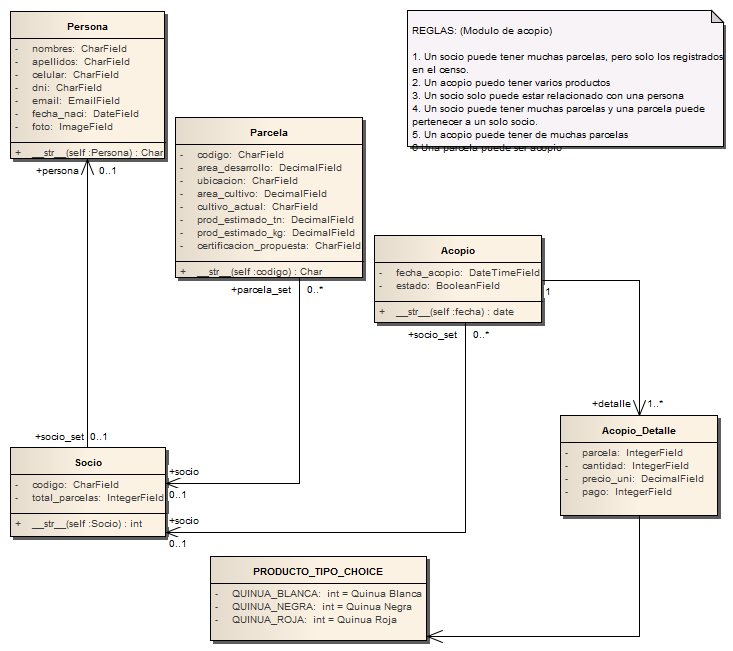
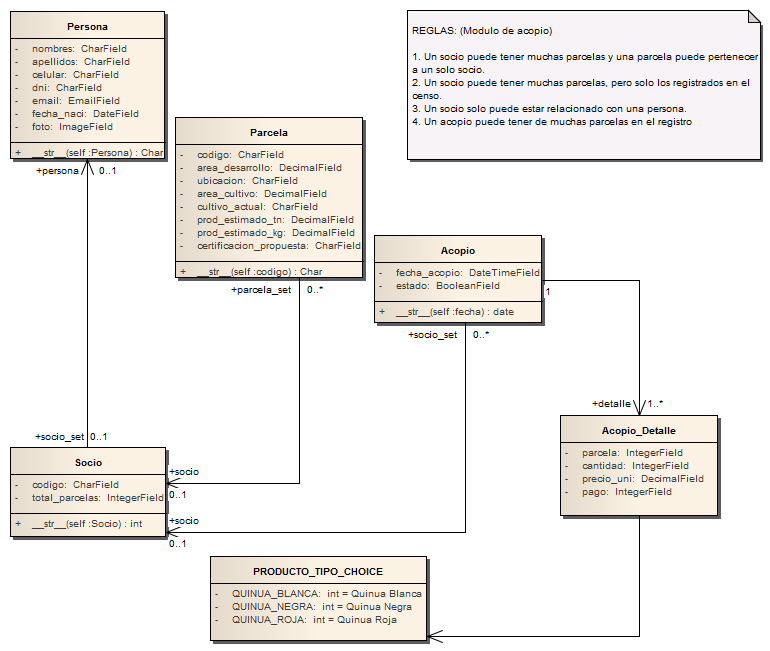
Views Model

diff --git a/EARoot/EA1/EA2/EA3/EA2/EA1/EA159.html b/EARoot/EA1/EA2/EA3/EA2/EA1/EA159.html
@@ -68,7 +68,6 @@ function initPage(src) {
 	<div class="TableGroup" id="TableGroup">
 		<ul class="ItemTitle">
 			<li onClick="parent.toggleItem('Attributes');" id="AttributesTitle">Atributos</li>
-			<li onClick="parent.toggleItem('AssociationsHasta');" id="AssociationsHastaTitle">Asociaciones Hasta</li>
 			<li onClick="parent.toggleItem('AssociationsDesde');" id="AssociationsDesdeTitle">Asociaciones Desde</li>
 		</ul>
 <div class="ItemBody" id="AttributesTable">
@@ -81,8 +80,8 @@ function initPage(src) {
 			</tr>
 			<tr>
 				<td class="TableRowBottomDashed"  colspan="1">
-					<div class="DetailsDivParent"><img src="../../../../../../images/minus03.gif" align="absmiddle" id="DetailsImageAttributes214" onclick="parent.toggleDiv('detailsDIVAttributes214','DetailsImageAttributes214')" />Details:
-						<div id="detailsDIVAttributes214" class="DetailsDiv" >
+					<div class="DetailsDivParent"><img src="../../../../../../images/minus03.gif" align="absmiddle" id="DetailsImageAttributes216" onclick="parent.toggleDiv('detailsDIVAttributes216','DetailsImageAttributes216')" />Details:
+						<div id="detailsDIVAttributes216" class="DetailsDiv" >
 						<i></i>&nbsp;
 						</div>
 					</div>
@@ -92,8 +91,8 @@ function initPage(src) {
 			</tr>
 			<tr>
 				<td class="TableRowBottomDashed"  colspan="1">
-					<div class="DetailsDivParent"><img src="../../../../../../images/minus03.gif" align="absmiddle" id="DetailsImageAttributes215" onclick="parent.toggleDiv('detailsDIVAttributes215','DetailsImageAttributes215')" />Details:
-						<div id="detailsDIVAttributes215" class="DetailsDiv" >
+					<div class="DetailsDivParent"><img src="../../../../../../images/minus03.gif" align="absmiddle" id="DetailsImageAttributes217" onclick="parent.toggleDiv('detailsDIVAttributes217','DetailsImageAttributes217')" />Details:
+						<div id="detailsDIVAttributes217" class="DetailsDiv" >
 						<i></i>&nbsp;
 						</div>
 					</div>
@@ -101,39 +100,6 @@ function initPage(src) {
 			</tr>
 	</table>
 </div>
-		<div class="ItemBody" id="AssociationsHastaTable">
-			<table border="0" cellspacing="0" cellpadding="0" class="Table">
-				<tr>
-					<td width="40%" class="TableHeading">Element</td>
-					<td width="30%" class="TableHeading">Source Role</td>
-					<td width="30%" class="TableHeading">Target Role</td>
-				</tr>
-				<tr>
-					<td width="40%" class="TableRow" valign="top">
-						<a href="EA160.html">Salida_Producto</a><br />
-						Clase &nbsp;
-					</td>
-					<td width="30%" class="TableRow" valign="top">
-						<strong>Name:</strong> detalleSalida_set<br />
-						&nbsp;
-					</td>
-					<td width="30%" class="TableRow" valign="top">
-						<strong>Name:</strong> salidaProducto<br />
-						&nbsp;	
-					</td>
-				</tr>
-				<tr>
-					<td class="TableRowBottomDashed"  colspan="3">
-						<div class="DetailsDivParent"><img src="../../../../../../images/minus03.gif" align="absmiddle" id="DetailsImageLink217" onclick="parent.toggleDiv('detailsDIVLink217','DetailsImageLink217')" />Details:
-							<div id="detailsDIVLink217" class="DetailsDiv" >
-							&nbsp;
-							</div>
-						</div>
-					</td>
-				</tr>
-
-			</table>
-		</div>
 		<div class="ItemBody" id="AssociationsDesdeTable">
 			<table border="0" cellspacing="0" cellpadding="0" class="Table">
 				<tr>
@@ -157,8 +123,8 @@ function initPage(src) {
 				</tr>
 				<tr>
 					<td class="TableRowBottomDashed"  colspan="3">
-						<div class="DetailsDivParent"><img src="../../../../../../images/minus03.gif" align="absmiddle" id="DetailsImageLink218" onclick="parent.toggleDiv('detailsDIVLink218','DetailsImageLink218')" />Details:
-							<div id="detailsDIVLink218" class="DetailsDiv" >
+						<div class="DetailsDivParent"><img src="../../../../../../images/minus03.gif" align="absmiddle" id="DetailsImageLink219" onclick="parent.toggleDiv('detailsDIVLink219','DetailsImageLink219')" />Details:
+							<div id="detailsDIVLink219" class="DetailsDiv" >
 							&nbsp;
 							</div>
 						</div>

diff --git a/EARoot/EA1/EA2/EA3/EA2/EA1/EA160.html b/EARoot/EA1/EA2/EA3/EA2/EA1/EA160.html
@@ -68,7 +68,7 @@ function initPage(src) {
 	<div class="TableGroup" id="TableGroup">
 		<ul class="ItemTitle">
 			<li onClick="parent.toggleItem('Attributes');" id="AttributesTitle">Atributos</li>
-			<li onClick="parent.toggleItem('AssociationsDesde');" id="AssociationsDesdeTitle">Asociaciones Desde</li>
+			<li onClick="parent.toggleItem('AssociationsHasta');" id="AssociationsHastaTitle">Asociaciones Hasta</li>
 			<li onClick="parent.toggleItem('Links');" id="LinksTitle">Otros vínculos</li>
 		</ul>
 <div class="ItemBody" id="AttributesTable">
@@ -112,7 +112,7 @@ function initPage(src) {
 			</tr>
 	</table>
 </div>
-		<div class="ItemBody" id="AssociationsDesdeTable">
+		<div class="ItemBody" id="AssociationsHastaTable">
 			<table border="0" cellspacing="0" cellpadding="0" class="Table">
 				<tr>
 					<td width="40%" class="TableHeading">Element</td>
@@ -121,22 +121,22 @@ function initPage(src) {
 				</tr>
 				<tr>
 					<td width="40%" class="TableRow" valign="top">
-						<a href="EA159.html">Detalle_salida_producto</a><br />
+						<a href="EA158.html">Almacen</a><br />
 						Clase &nbsp;
 					</td>
 					<td width="30%" class="TableRow" valign="top">
-						<strong>Name:</strong> detalleSalida_set<br />
+						<strong>Name:</strong> &nbsp;<br />
 						&nbsp;
 					</td>
 					<td width="30%" class="TableRow" valign="top">
-						<strong>Name:</strong> salidaProducto<br />
+						<strong>Name:</strong> &nbsp;<br />
 						&nbsp;	
 					</td>
 				</tr>
 				<tr>
 					<td class="TableRowBottomDashed"  colspan="3">
-						<div class="DetailsDivParent"><img src="../../../../../../images/minus03.gif" align="absmiddle" id="DetailsImageLink224" onclick="parent.toggleDiv('detailsDIVLink224','DetailsImageLink224')" />Details:
-							<div id="detailsDIVLink224" class="DetailsDiv" >
+						<div class="DetailsDivParent"><img src="../../../../../../images/minus03.gif" align="absmiddle" id="DetailsImageLink223" onclick="parent.toggleDiv('detailsDIVLink223','DetailsImageLink223')" />Details:
+							<div id="detailsDIVLink223" class="DetailsDiv" >
 							&nbsp;
 							</div>
 						</div>

diff --git a/EARoot/EA1/EA2/EA3/EA2/EA1/EA158.html b/EARoot/EA1/EA2/EA3/EA2/EA1/EA158.html
@@ -70,6 +70,7 @@ function initPage(src) {
 			<li onClick="parent.toggleItem('Attributes');" id="AttributesTitle">Atributos</li>
 			<li onClick="parent.toggleItem('Operations');" id="OperationsTitle">Operaciones</li>
 			<li onClick="parent.toggleItem('AssociationsHasta');" id="AssociationsHastaTitle">Asociaciones Hasta</li>
+			<li onClick="parent.toggleItem('AssociationsDesde');" id="AssociationsDesdeTitle">Asociaciones Desde</li>
 			<li onClick="parent.toggleItem('Links');" id="LinksTitle">Otros vínculos</li>
 		</ul>
 <div class="ItemBody" id="AttributesTable">
@@ -210,6 +211,39 @@ function initPage(src) {
 					<td class="TableRowBottomDashed"  colspan="3">
 						<div class="DetailsDivParent"><img src="../../../../../../images/minus03.gif" align="absmiddle" id="DetailsImageLink211" onclick="parent.toggleDiv('detailsDIVLink211','DetailsImageLink211')" />Details:
 							<div id="detailsDIVLink211" class="DetailsDiv" >
+							&nbsp;
+							</div>
+						</div>
+					</td>
+				</tr>
+
+			</table>
+		</div>
+		<div class="ItemBody" id="AssociationsDesdeTable">
+			<table border="0" cellspacing="0" cellpadding="0" class="Table">
+				<tr>
+					<td width="40%" class="TableHeading">Element</td>
+					<td width="30%" class="TableHeading">Source Role</td>
+					<td width="30%" class="TableHeading">Target Role</td>
+				</tr>
+				<tr>
+					<td width="40%" class="TableRow" valign="top">
+						<a href="EA160.html">Salida_Producto</a><br />
+						Clase &nbsp;
+					</td>
+					<td width="30%" class="TableRow" valign="top">
+						<strong>Name:</strong> &nbsp;<br />
+						&nbsp;
+					</td>
+					<td width="30%" class="TableRow" valign="top">
+						<strong>Name:</strong> &nbsp;<br />
+						&nbsp;	
+					</td>
+				</tr>
+				<tr>
+					<td class="TableRowBottomDashed"  colspan="3">
+						<div class="DetailsDivParent"><img src="../../../../../../images/minus03.gif" align="absmiddle" id="DetailsImageLink215" onclick="parent.toggleDiv('detailsDIVLink215','DetailsImageLink215')" />Details:
+							<div id="detailsDIVLink215" class="DetailsDiv" >
 							&nbsp;
 							</div>
 						</div>

diff --git a/EARoot/EA1/EA2/EA3/EA2/EA1/EA154.html b/EARoot/EA1/EA2/EA3/EA2/EA1/EA154.html
@@ -19,13 +19,13 @@ function initPage(src) {
 <img src="EA155.png" usemap="#EA155" border="0" />
 
 <MAP NAME="EA155">
-<area shape="rect" coords="135,10,536,121" href="EA156.html">
-<area shape="rect" coords="506,414,675,484" href="EA159.html">
-<area shape="rect" coords="213,598,369,668" href="EA160.html">
-<area shape="rect" coords="152,386,312,483" href="EA158.html">
-<area shape="rect" coords="232,183,400,266" href="../../../EA2/EA2/EA2/EA114.html">
-<area shape="rect" coords="243,382,389,470" href="../../../EA2/EA2/EA2/EA115.html">
-<area shape="rect" coords="10,128,227,213" href="../../../EA2/EA2/EA2/EA113.html">
+<area shape="rect" coords="390,157,607,242" href="../../../EA2/EA2/EA2/EA113.html">
+<area shape="rect" coords="34,164,180,252" href="../../../EA2/EA2/EA2/EA115.html">
+<area shape="rect" coords="10,391,178,474" href="../../../EA2/EA2/EA2/EA114.html">
+<area shape="rect" coords="275,10,676,121" href="EA156.html">
+<area shape="rect" coords="646,414,815,484" href="EA159.html">
+<area shape="rect" coords="392,585,548,655" href="EA160.html">
+<area shape="rect" coords="310,384,470,481" href="EA158.html">
 </MAP>
 
 	<div class="ObjectTitle">Models : lógico diagram</div>
@@ -36,7 +36,7 @@ function initPage(src) {
 		</tr>
 		<tr>
 			<td width="15%" class="ObjectDetailsTopic">Modified:</td>
-			<td width="85%" class="ObjectDetailsValue">31/05/2017 07:23:55</td>
+			<td width="85%" class="ObjectDetailsValue">5/06/2017 12:07:24</td>
 		</tr>
 		<tr style="padding-top: 10px;">
 			<td width="15%" class="ObjectDetailsTopic"><img src="../../../../../../images/plus03.gif" align="absmiddle" id="proj" onclick="parent.toggleData(this.id)" />Project:</td>

diff --git a/EARoot/EA1/EA2/EA2/EA2/EA2/EA112.html b/EARoot/EA1/EA2/EA2/EA2/EA2/EA112.html
@@ -24,7 +24,7 @@ function initPage(src) {
 		</tr>
 		<tr>
 			<td class="ObjectDetailsTopic">Modified:</td>
-			<td class="ObjectDetailsValue">5/06/2017 11:40:38</td>
+			<td class="ObjectDetailsValue">5/06/2017 12:12:24</td>
 		</tr>
 		<tr style="height: 10px"><td colspan="2"></td></tr>
 		<tr>
@@ -64,7 +64,7 @@ function initPage(src) {
 			<td class="ObjectDetailsValue"><a href="EA110.html">Acopio Entity</a></td>
 		</tr>
 	</table>
-	<div class="ObjectDetailsNotes">&lt;p&gt;REGLAS: (Modulo de acopio)&lt;br /&gt;&lt;/p&gt;&lt;p&gt;&lt;br /&gt;&lt;/p&gt;&lt;p&gt;1. Un socio puede tener muchas parcelas, pero solo los registrados en el censo.&lt;br /&gt;&lt;/p&gt;&lt;p&gt;2. Un acopio puedo tener varios productos&lt;br /&gt;&lt;/p&gt;&lt;p&gt;3. Un socio solo puede estar relacionado con una persona&lt;br /&gt;&lt;/p&gt;&lt;p&gt;4. Un socio puede tener muchas parcelas y una parcela puede pertenecer a un solo socio.&lt;br /&gt;&lt;/p&gt;&lt;p&gt;5. Un acopio puede tener de muchas parcelas &lt;br /&gt;&lt;/p&gt;&lt;p&gt;6 Una parcela puede ser acopio&lt;br /&gt;&lt;/p&gt;</div>
+	<div class="ObjectDetailsNotes">&lt;p&gt;REGLAS: (Modulo de acopio)&lt;br /&gt;&lt;/p&gt;&lt;p&gt;&lt;br /&gt;&lt;/p&gt;&lt;p&gt;1. Un socio puede tener muchas parcelas y una parcela puede pertenecer a un solo socio.&lt;br /&gt;&lt;/p&gt;&lt;p&gt;2. Un socio puede tener muchas parcelas, pero solo los registrados en el censo.&lt;br /&gt;&lt;/p&gt;&lt;p&gt;3. Un socio solo puede estar relacionado con una persona.&lt;br /&gt;&lt;/p&gt;&lt;p&gt;4. Un acopio puede tener de muchas parcelas en el registro&lt;br /&gt;&lt;/p&gt;</div>
 
 <div class="pageFooter"></div>
  

diff --git a/EARoot/EA1/EA2/EA3/EA2/EA1/EA156.html b/EARoot/EA1/EA2/EA3/EA2/EA1/EA156.html
@@ -24,7 +24,7 @@ function initPage(src) {
 		</tr>
 		<tr>
 			<td class="ObjectDetailsTopic">Modified:</td>
-			<td class="ObjectDetailsValue">5/06/2017 11:55:43</td>
+			<td class="ObjectDetailsValue">5/06/2017 12:04:42</td>
 		</tr>
 		<tr style="height: 10px"><td colspan="2"></td></tr>
 		<tr>
@@ -64,7 +64,7 @@ function initPage(src) {
 			<td class="ObjectDetailsValue"><a href="EA154.html">Models</a></td>
 		</tr>
 	</table>
-	<div class="ObjectDetailsNotes">&lt;p&gt;Reglas &lt;br /&gt;&lt;/p&gt;&lt;p&gt;&lt;br /&gt;&lt;/p&gt;&lt;p&gt;1. Un almacen tiene muchos acopios ,&#160; un acopio&#160; puede o no estar en un almacen .&lt;br /&gt;&lt;/p&gt;&lt;p&gt;2. Un acopio puede tener varios detalles y un detalle puede estar en varios acopio&lt;br /&gt;&lt;/p&gt;&lt;p&gt;3. &lt;br /&gt;&lt;/p&gt;&lt;p&gt;&lt;br /&gt;&lt;/p&gt;</div>
+	<div class="ObjectDetailsNotes">&lt;p&gt;Reglas &lt;br /&gt;&lt;/p&gt;&lt;p&gt;&lt;br /&gt;&lt;/p&gt;&lt;p&gt;1. Un almacen tiene muchos acopios ,&#160; un acopio&#160; puede o no estar en un almacen .&lt;br /&gt;&lt;/p&gt;&lt;p&gt;2. Un acopio puede tener varios detalles y un detalle puede estar en varios acopio&lt;br /&gt;&lt;/p&gt;&lt;p&gt;3. Un almacen tiene muchos detalles de salida , uno o muchos detalles_salida pueden estar en un almacen.&lt;br /&gt;&lt;/p&gt;&lt;p&gt;&lt;br /&gt;&lt;/p&gt;</div>
 
 <div class="pageFooter"></div>
  

diff --git a/EARoot/EA1/EA2/EA2/EA2/EA2/EA110.html b/EARoot/EA1/EA2/EA2/EA2/EA2/EA110.html
@@ -19,11 +19,11 @@ function initPage(src) {
 <img src="EA111.png" usemap="#EA111" border="0" />
 
 <MAP NAME="EA111">
-<area shape="rect" coords="407,10,723,146" href="EA112.html">
 <area shape="rect" coords="210,556,427,641" href="EA113.html">
 <area shape="rect" coords="560,415,718,516" href="EA115.html">
 <area shape="rect" coords="374,235,542,323" href="EA114.html">
 <area shape="rect" coords="10,447,166,537" href="EA118.html">
+<area shape="rect" coords="407,10,760,159" href="EA112.html">
 <area shape="rect" coords="175,117,363,278" href="EA116.html">
 <area shape="rect" coords="10,11,165,159" href="EA117.html">
 </MAP>

diff --git a/index.html b/index.html
@@ -6,7 +6,7 @@
 <link href="css/ea.css" rel="stylesheet" type="text/css" />
 <script language="JavaScript" src="js/displayToc.js" type="text/javascript"></script>
 </head>
-<body onload="initLoad(this,'toc.html','./EARoot/EA1/EA2/EA1/EA1/EA1/EA36.html')" onresize="resizePage()">
+<body onload="initLoad(this,'toc.html','./EARoot/EA1/EA2/EA2/EA2/EA2/EA110.html')" onresize="resizePage()">
 <div class="IndexTitle">
 	Model
 </div>

diff --git a/EARoot/EA1/EA2/EA2/EA2/EA2/EA113.html b/EARoot/EA1/EA2/EA2/EA2/EA2/EA113.html
@@ -2,7 +2,7 @@
 <html xmlns="http://www.w3.org/1999/xhtml">
 <head>
 <meta http-equiv="Content-Type" content="text/html; charset=UTF-8" />
-<title>Models:: PRODUCTO_TIPO_CHOICE</title>
+<title> PRODUCTO_TIPO_CHOICE</title>
 <link href="../../../../../../css/ea.css" rel="stylesheet" type="text/css" />
 <script>
 function initPage(src) {

diff --git a/EARoot/EA1/EA2/EA1/EA1/EA1/EA47.html b/EARoot/EA1/EA2/EA1/EA1/EA1/EA47.html
@@ -2,7 +2,7 @@
 <html xmlns="http://www.w3.org/1999/xhtml">
 <head>
 <meta http-equiv="Content-Type" content="text/html; charset=UTF-8" />
-<title>RegistroAsistencia</title>
+<title>models::RegistroAsistencia</title>
 <link href="../../../../../../css/ea.css" rel="stylesheet" type="text/css" />
 <script>
 function initPage(src) {

diff --git a/EARoot/EA1/EA2/EA2/EA2/EA2/EA115.html b/EARoot/EA1/EA2/EA2/EA2/EA2/EA115.html
@@ -2,7 +2,7 @@
 <html xmlns="http://www.w3.org/1999/xhtml">
 <head>
 <meta http-equiv="Content-Type" content="text/html; charset=UTF-8" />
-<title>Models::Acopio_Detalle</title>
+<title>Acopio_Detalle</title>
 <link href="../../../../../../css/ea.css" rel="stylesheet" type="text/css" />
 <script>
 function initPage(src) {

diff --git a/EARoot/EA1/EA2/EA1/EA1/EA1/EA39.html b/EARoot/EA1/EA2/EA1/EA1/EA1/EA39.html
@@ -2,7 +2,7 @@
 <html xmlns="http://www.w3.org/1999/xhtml">
 <head>
 <meta http-equiv="Content-Type" content="text/html; charset=UTF-8" />
-<title>Enumeration1</title>
+<title>models::Enumeration1</title>
 <link href="../../../../../../css/ea.css" rel="stylesheet" type="text/css" />
 <script>
 function initPage(src) {
